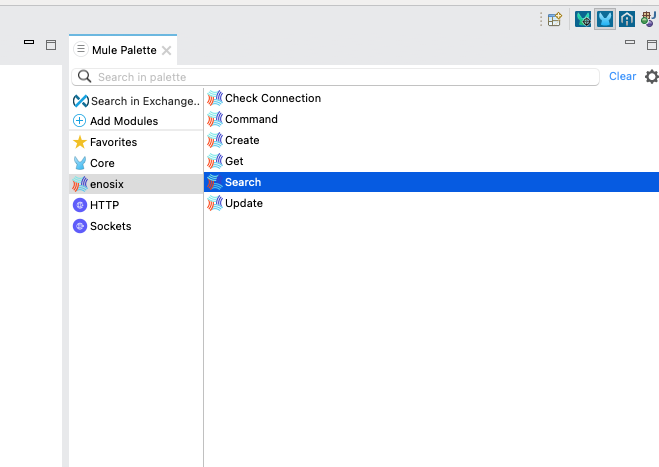
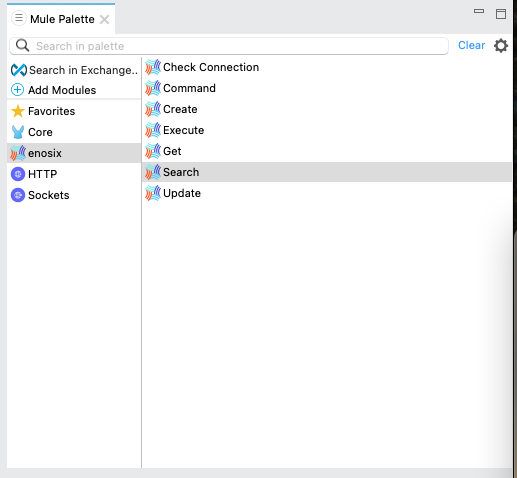
RFC operation documented.

Changed region(s): [[0.0, 0.0, 1.0, 1.0]]

diff --git a/releasenotes.md b/releasenotes.md
@@ -3,8 +3,8 @@
 ## enosix SAP Connector Release 1.0.0
 
 Initial Release
-- Check Connection
-- Search
+- **Check Connection**
+- **Search**
 
 ## enosix SAP Connector Release 2.0.0
 Four additional operations are added part of 2.0.0 release. 
@@ -13,7 +13,21 @@ enosix SAP Connector now have total six operations.
 
 - Check Connection
 - Search
+- **Get**
+- **Create**
+- **Update**
+- **Command**
+
+## enosix SAP Connector Release 3.0.0
+New operation **Execute** added for RFC / BAPI calls.
+Fixed issues with drag drop mapping by making changes to RIO XSD's.
+
+enosix SAP Connector now have total seven operations.
+
+- Check Connection
+- Search
 - Get
 - Create
 - Update
 - Command
+- **Execute**
